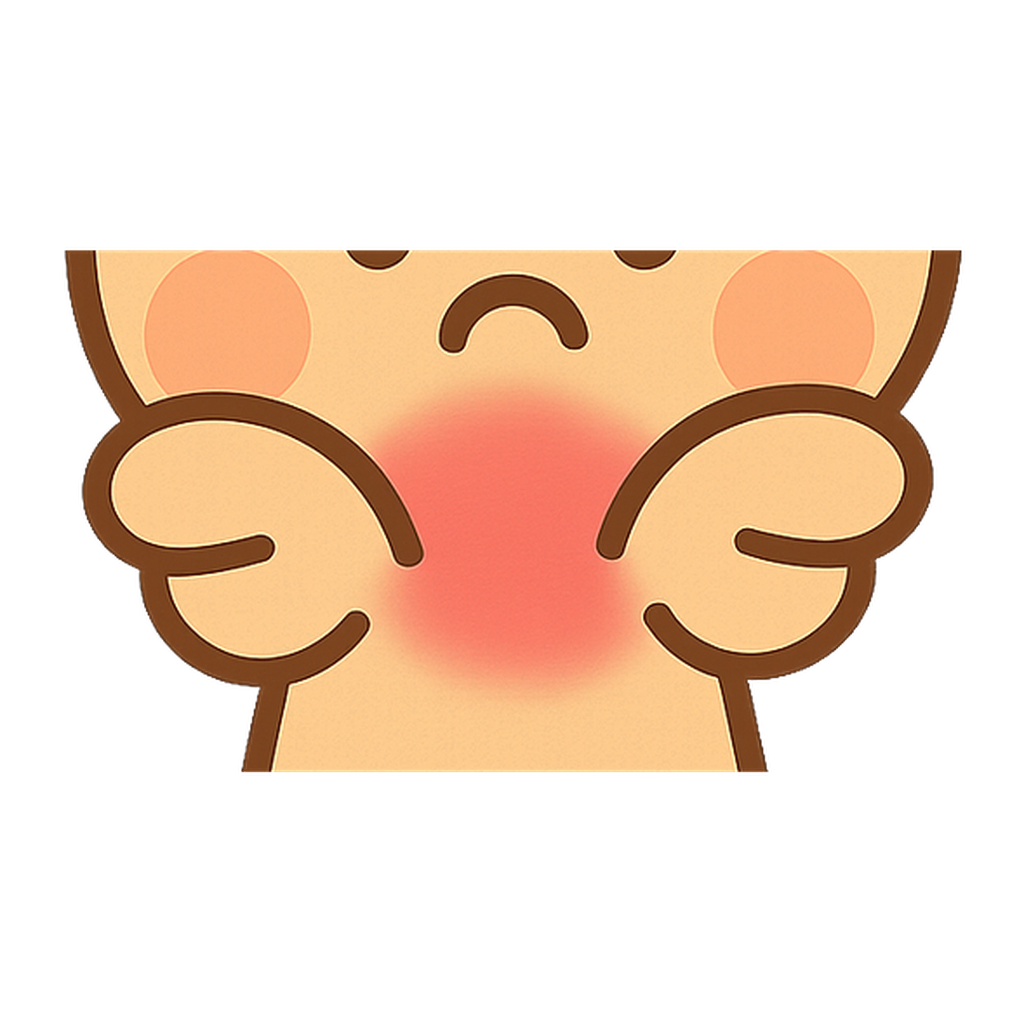
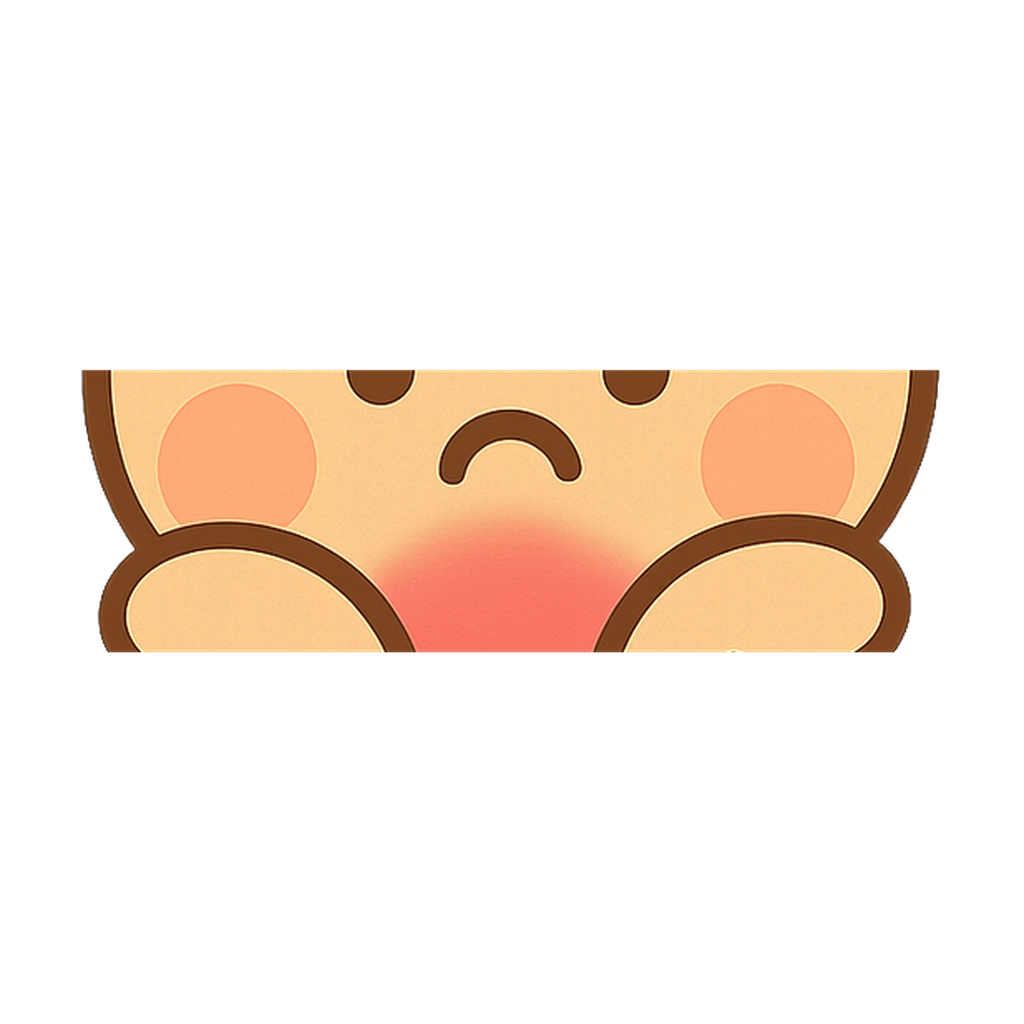
fix: kataクローズアップを再クロップ(alan5差し戻し対応)
「腕の曲線が羽のように見えて肩と読みにくい」との差し戻しを受け、フィストの
輪が閉じきる前(y<590)で切り、首と肩の付け根(僧帽筋のライン)に寄せた
クロップに変更。22px確認済み。

Claude-Session: https://claude.ai/code/session_01WZZeYHN5ctB3pDno1dcmjD

diff --git a/scripts/gen-bodypart-closeup.py b/scripts/gen-bodypart-closeup.py
@@ -26,10 +26,12 @@ SRC_DIR = os.path.expanduser("~/Claude/kyou-no-ogatore/.art-staging/bodypart-hig
 OUT_DIR = os.path.expanduser("~/Claude/kyou-no-ogatore/.art-staging/bodypart-closeup")
 
 # 見た目を確認しながら1枚ずつ手作業で追い込んだ座標(momoura/kubiは1回ずつ
-# 見づらさ・顔の写り込みを理由に再調整済み)。
+# 見づらさ・顔の写り込みを理由に再調整済み。kataはalan5差し戻し(2026-07-31
+# 「腕の曲線が羽のように見える」)を受けて、フィストの輪が閉じきる前(y<590)で
+# 切り、僧帽筋のラインに寄せて再クロップ)。
 CROPS = {
     "zenshin":    (170, 420, 720, 820),
-    "kata":       (140, 430, 720, 730),
+    "kata":       (170, 420, 690, 590),
     "kubi":       (200, 470, 750, 780),
     "senaka":     (160, 420, 800, 850),
     "kokansetsu": (140, 540, 800, 890),
